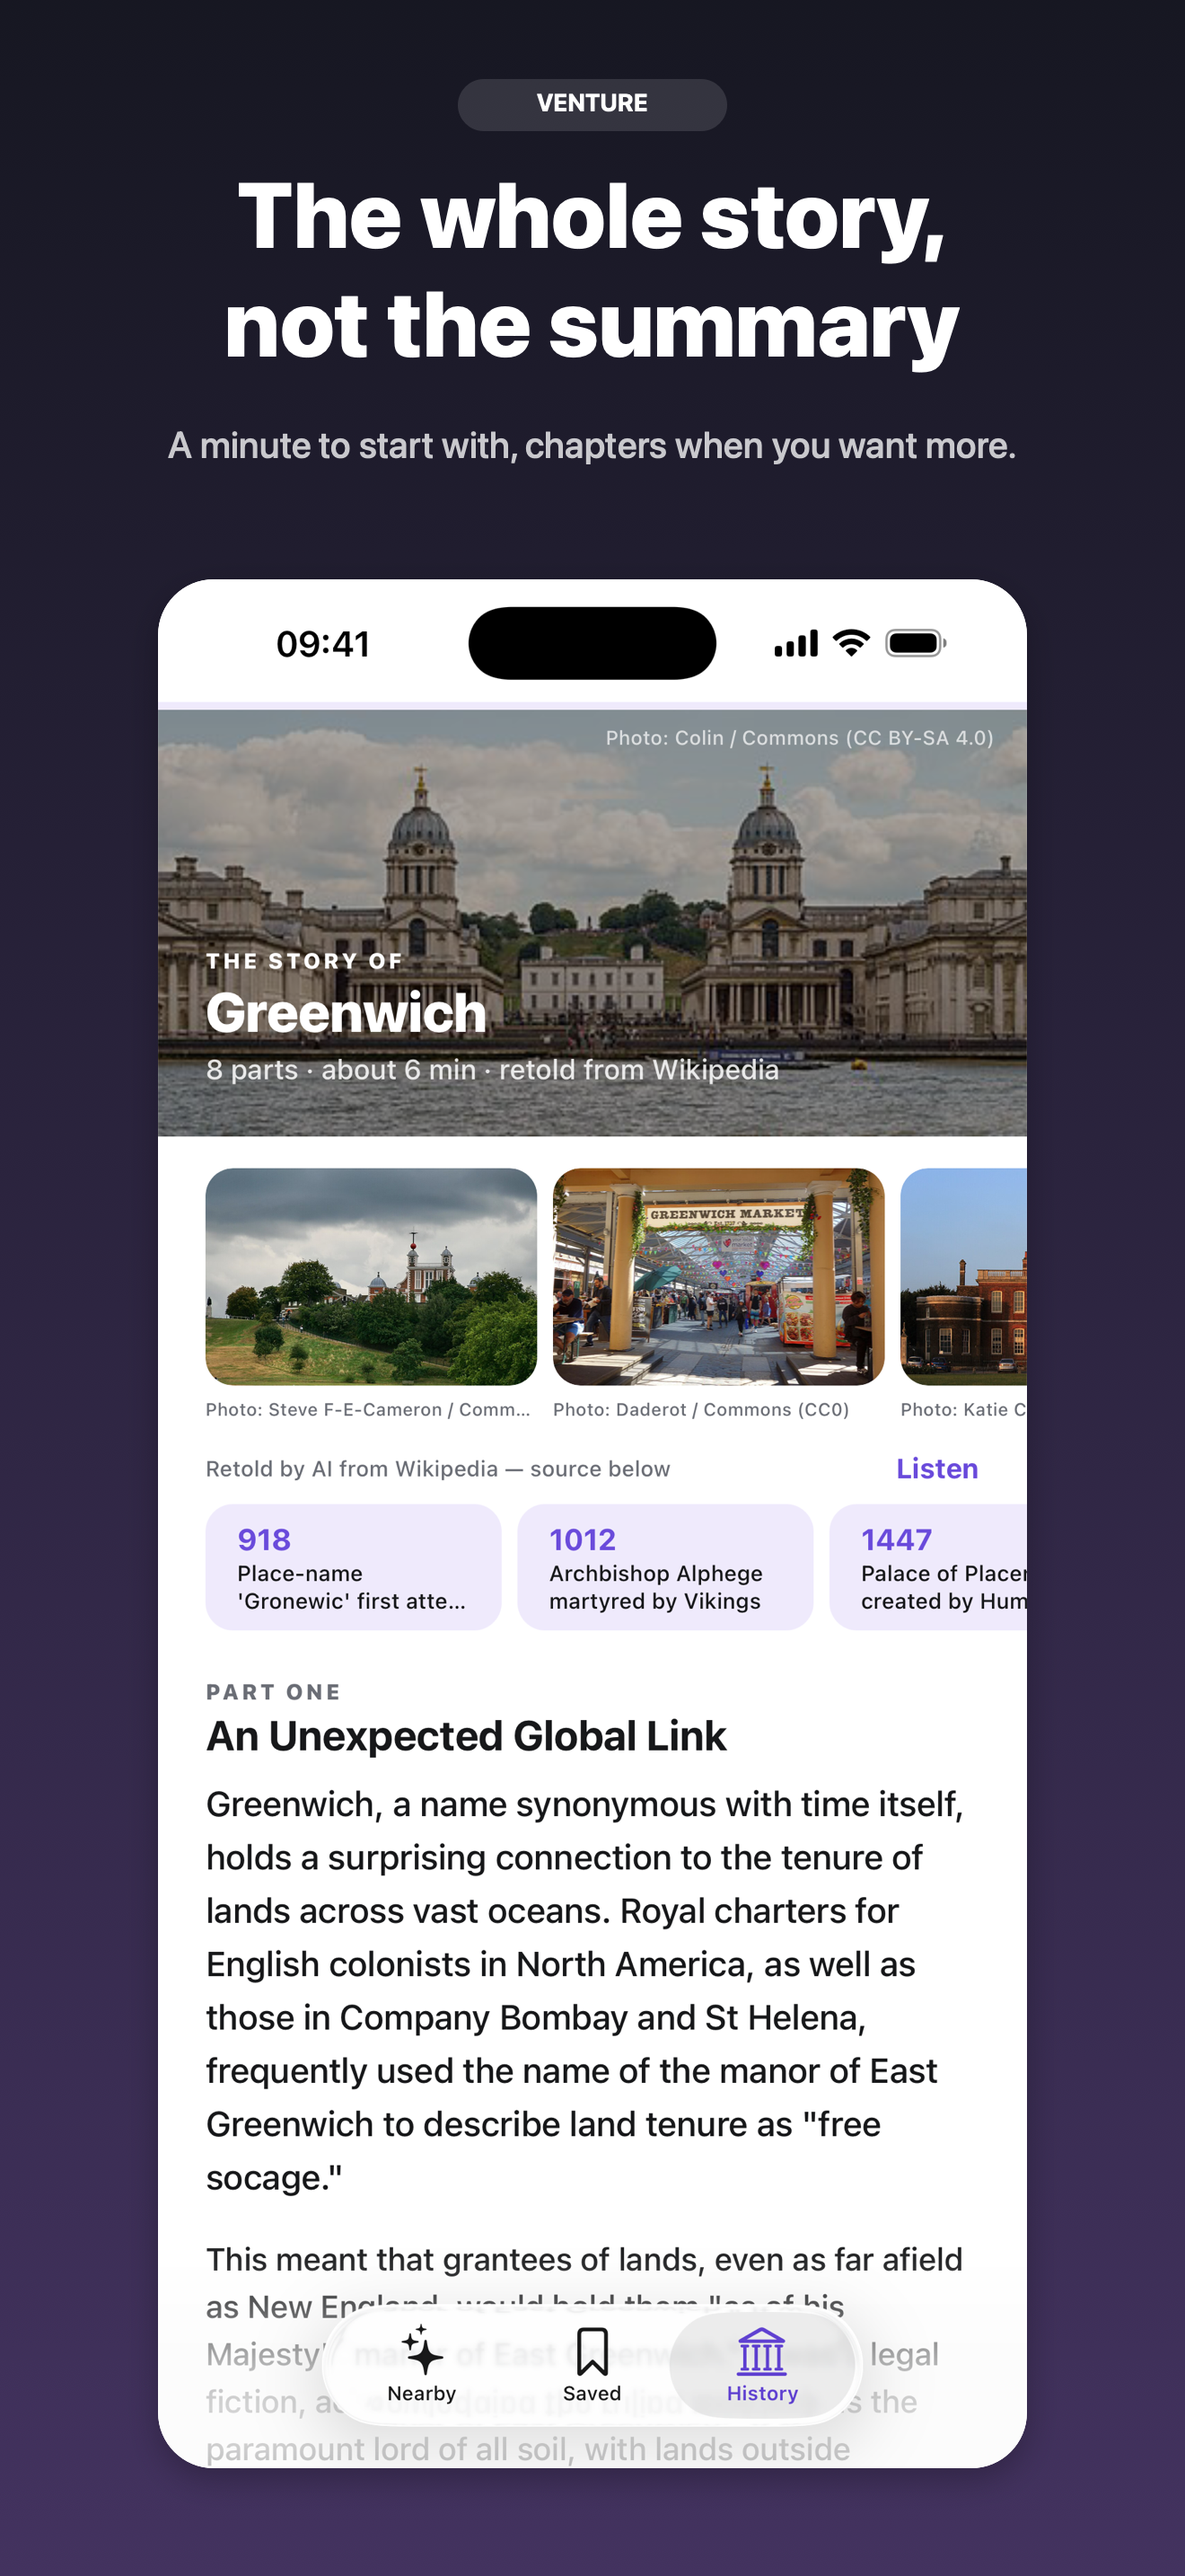
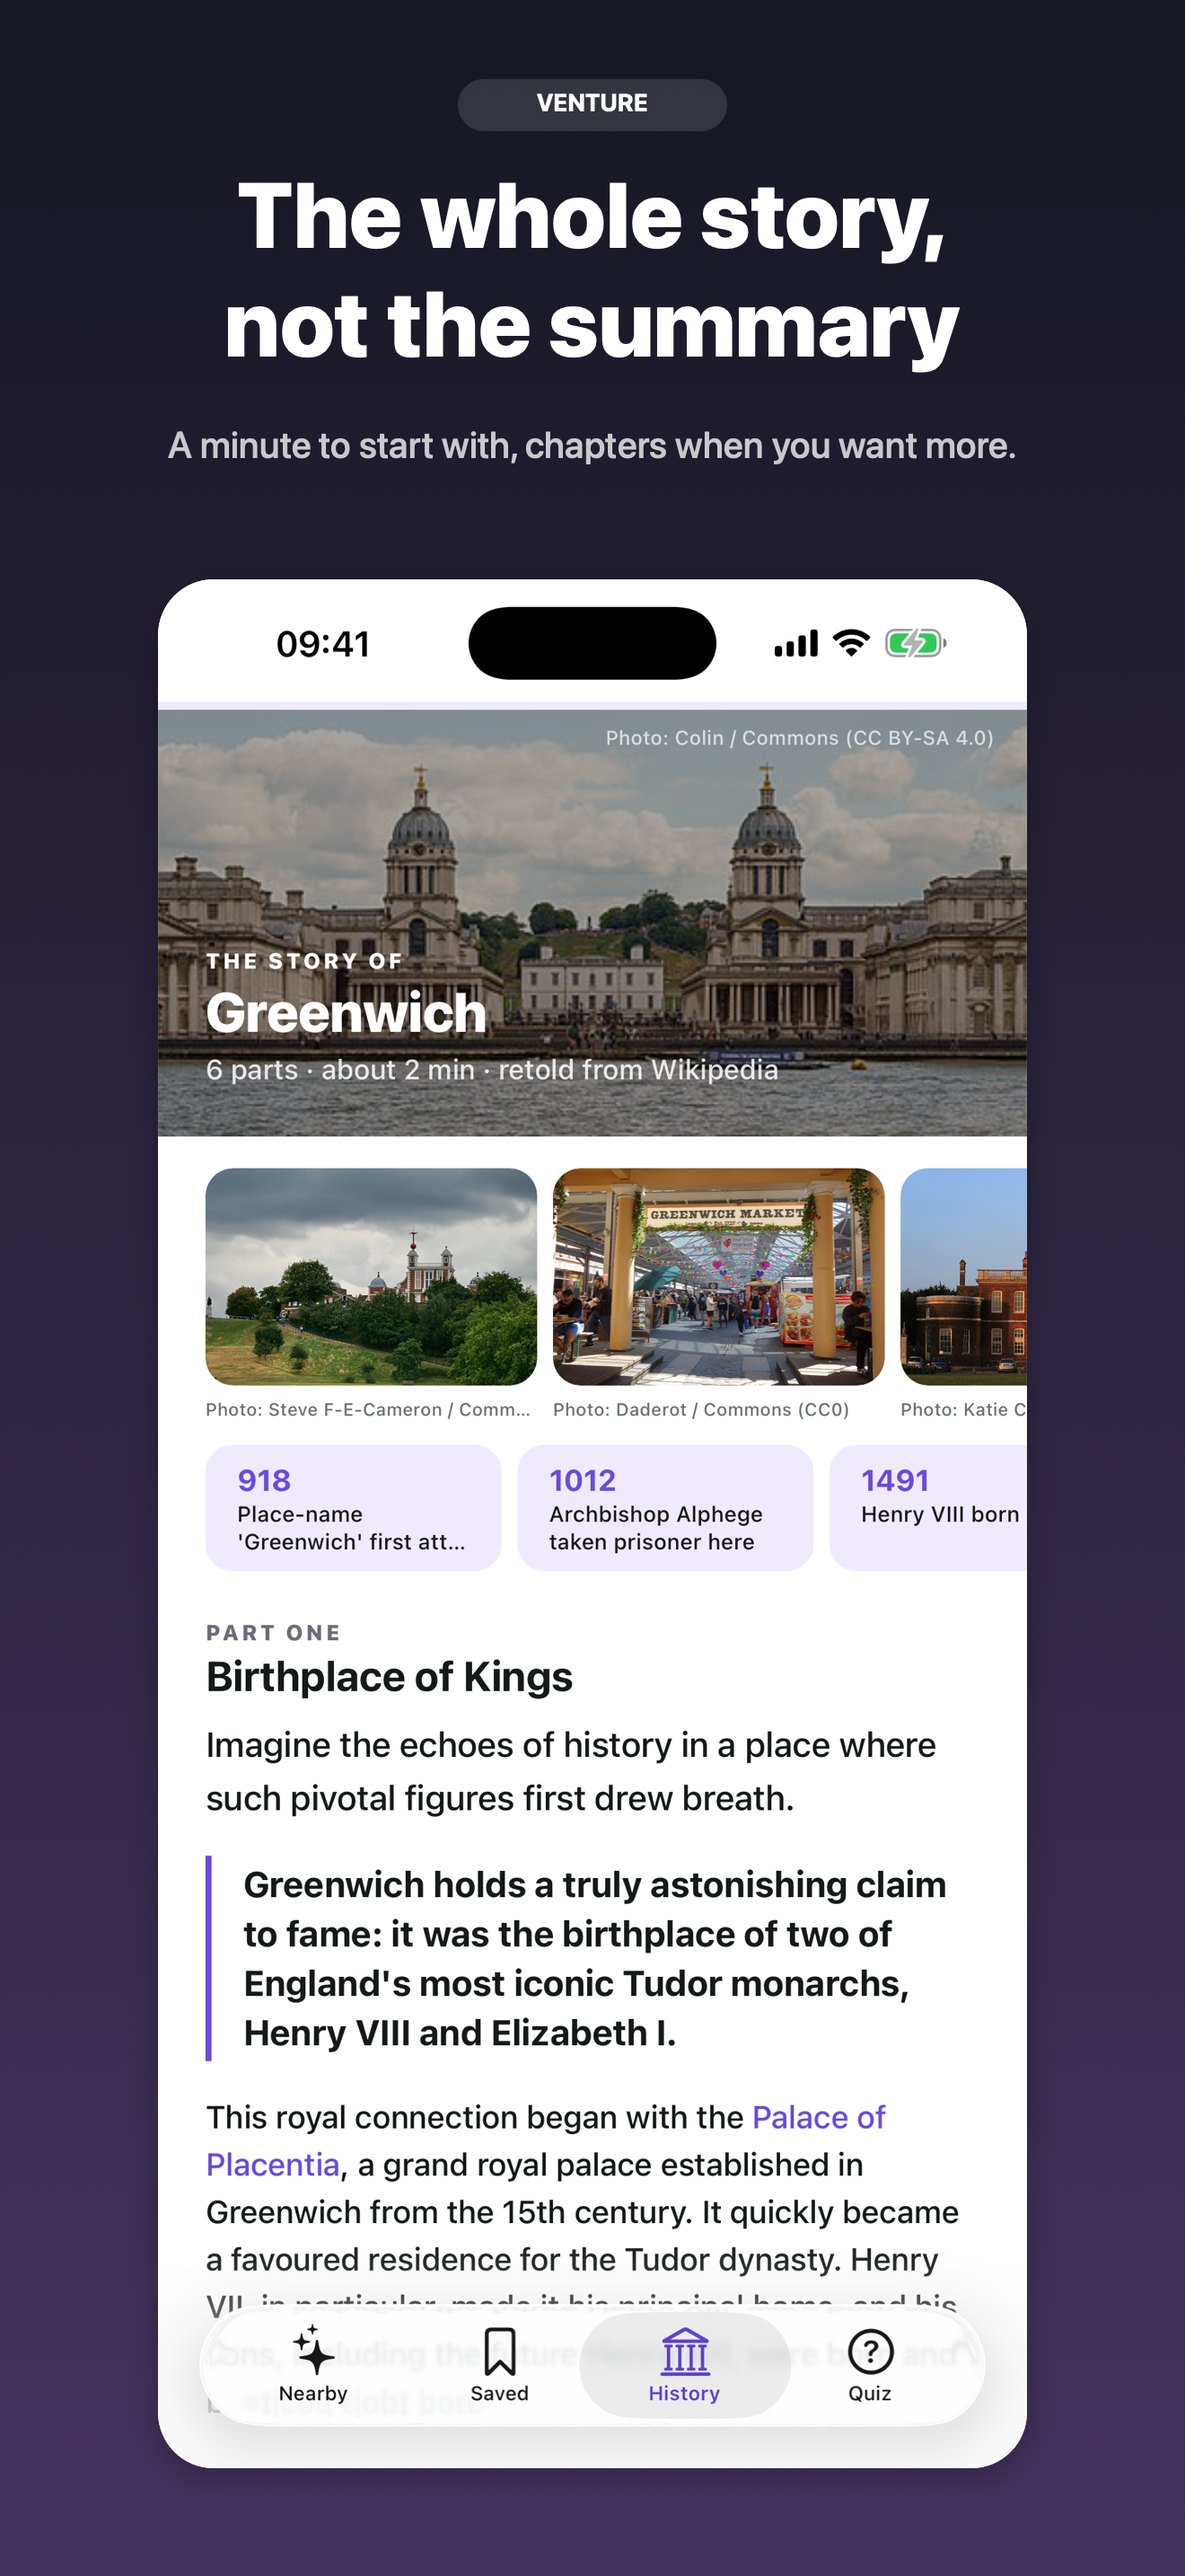
The listing and the screenshots stop describing the app that kept being rejected
The store description led with reading — "open the app and all of it is
in front of you… the full account in chapters" — which primed exactly
the 4.2.2 reading three reviews reached for, overstated chapters the
short places no longer show, and closed on a sentence the privacy
policy contradicts ("your location stays on your phone" — coordinates
are sent to compose the feed, as the policy correctly says). The new
description leads with what the app DOES — finds, tells, asks, points,
notices — scopes chapters to where they exist, and promises only what
the policy proves. Both locales, US spellings for en-US.

The screenshots showed an app with three tabs, no map, and no quiz —
the set predated the two surfaces this submission argues. All five
recaptured from a live production-pointed session (Greenwich, clean
status bar, real generated content), and the quiz earns the sixth
panel: "How much of it do you know?" over a real dealt question. Every
raw capture and every rendered panel was inspected by eye before this
commit: nothing cropped, nothing stretched, no spinners, no dev chrome.

diff --git a/app-store/screenshots/marketing/render.swift b/app-store/screenshots/marketing/render.swift
@@ -49,6 +49,13 @@ let panels = [
         subhead: "Read it, or listen while you walk.",
         topColor: purple, bottomColor: NSColor(calibratedRed: 0.27, green: 0.12, blue: 0.62, alpha: 1),
         textColor: .white, mutedColor: NSColor.white.withAlphaComponent(0.80)),
+  // The quiz earned the sixth slot: it is the surface that answers
+  // "content aggregated from the Internet" — the app asking, not telling
+  Panel(file: "06-test-yourself.png", sourceFile: "06-quiz.png",
+        headline: "How much of it\ndo you know?",
+        subhead: "A quiz about the ground you're standing on.",
+        topColor: cream, bottomColor: NSColor(calibratedRed: 0.90, green: 0.86, blue: 1.00, alpha: 1),
+        textColor: ink, mutedColor: NSColor(calibratedWhite: 0.25, alpha: 1)),
 ]
 
 func topRect(x: CGFloat, y: CGFloat, width: CGFloat, height rectHeight: CGFloat) -> NSRect {
